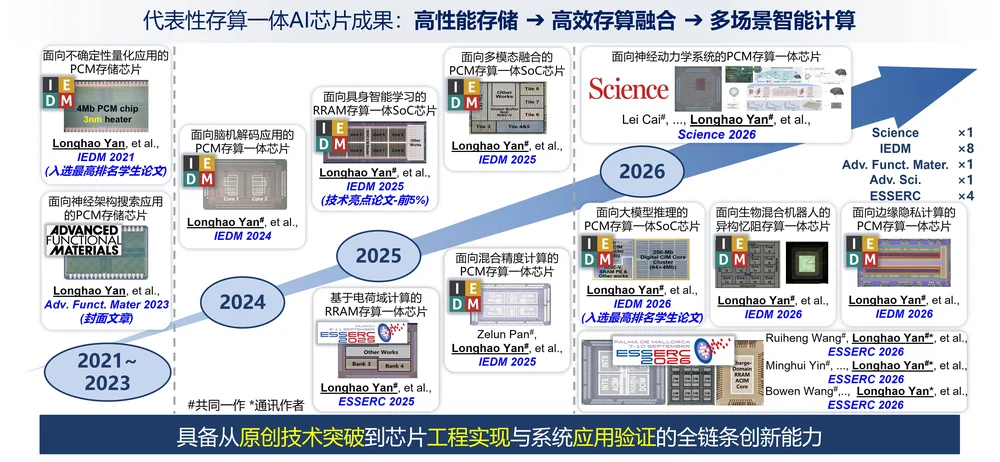
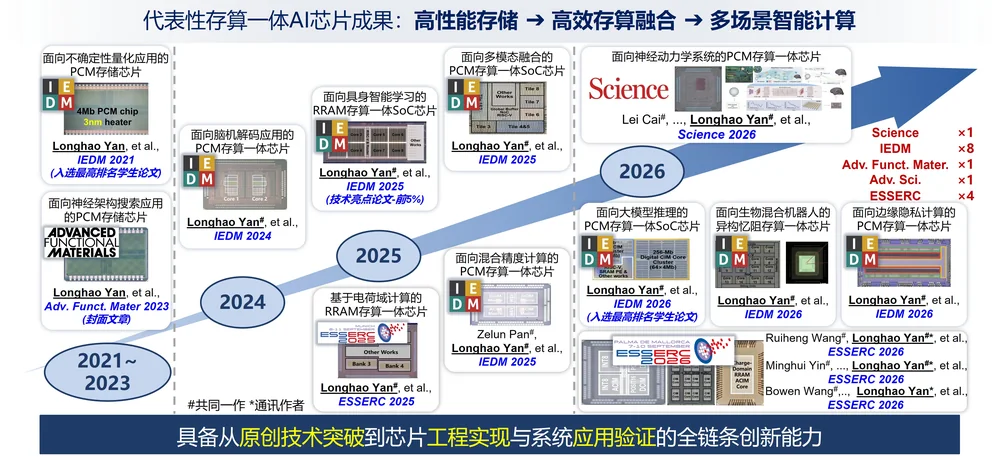
Update research progress graphic to latest version

diff --git a/index.html b/index.html
@@ -31,7 +31,7 @@
   <link rel="alternate" hreflang="en" href="https://yanlonghao.com/?lang=en">
   <link rel="alternate" hreflang="x-default" href="https://yanlonghao.com/">
   <link rel="icon" href="assets/images/favicon.svg" type="image/svg+xml">
-  <link rel="stylesheet" href="assets/css/styles.css?v=67">
+  <link rel="stylesheet" href="assets/css/styles.css?v=68">
   <title>Longhao Yan | 闫龙皞</title>
   <script type="application/ld+json">
     {
@@ -151,8 +151,8 @@
           </div>
           <figure class="about-progress">
             <picture>
-              <source media="(max-width: 640px)" srcset="assets/images/about/research-progress-1000.webp?v=6">
-              <img data-about-progress-image src="assets/images/about/research-progress.webp?v=6" alt="忆阻存算一体 AI 芯片研究进展" data-i18n-alt="aboutProgressAlt" width="2000" height="925" loading="eager" fetchpriority="high" decoding="async">
+              <source media="(max-width: 640px)" srcset="assets/images/about/research-progress-1000.webp?v=7">
+              <img data-about-progress-image src="assets/images/about/research-progress.webp?v=7" alt="忆阻存算一体 AI 芯片研究进展" data-i18n-alt="aboutProgressAlt" width="2000" height="925" loading="eager" fetchpriority="high" decoding="async">
             </picture>
           </figure>
           <div class="about-more" id="about-more" hidden>

diff --git a/assets/css/styles.css b/assets/css/styles.css
@@ -318,7 +318,7 @@ h2 { margin: 0; color: var(--navy-900); font-size: clamp(2rem, 4vw, 3.5rem); lin
 
 .about-more[hidden] { display: none; }
 
-.about-progress { margin: 26px 0 0; overflow: hidden; background: var(--white) url("../images/about/research-progress-preview.webp?v=4") center / cover no-repeat; border: 1px solid #b8c9d8; border-radius: 16px; box-shadow: 0 12px 28px rgba(6, 21, 42, 0.08); }
+.about-progress { margin: 26px 0 0; overflow: hidden; background: var(--white) url("../images/about/research-progress-preview.webp?v=5") center / cover no-repeat; border: 1px solid #b8c9d8; border-radius: 16px; box-shadow: 0 12px 28px rgba(6, 21, 42, 0.08); }
 
 .about-progress img { display: block; width: 100%; height: auto; }
 
